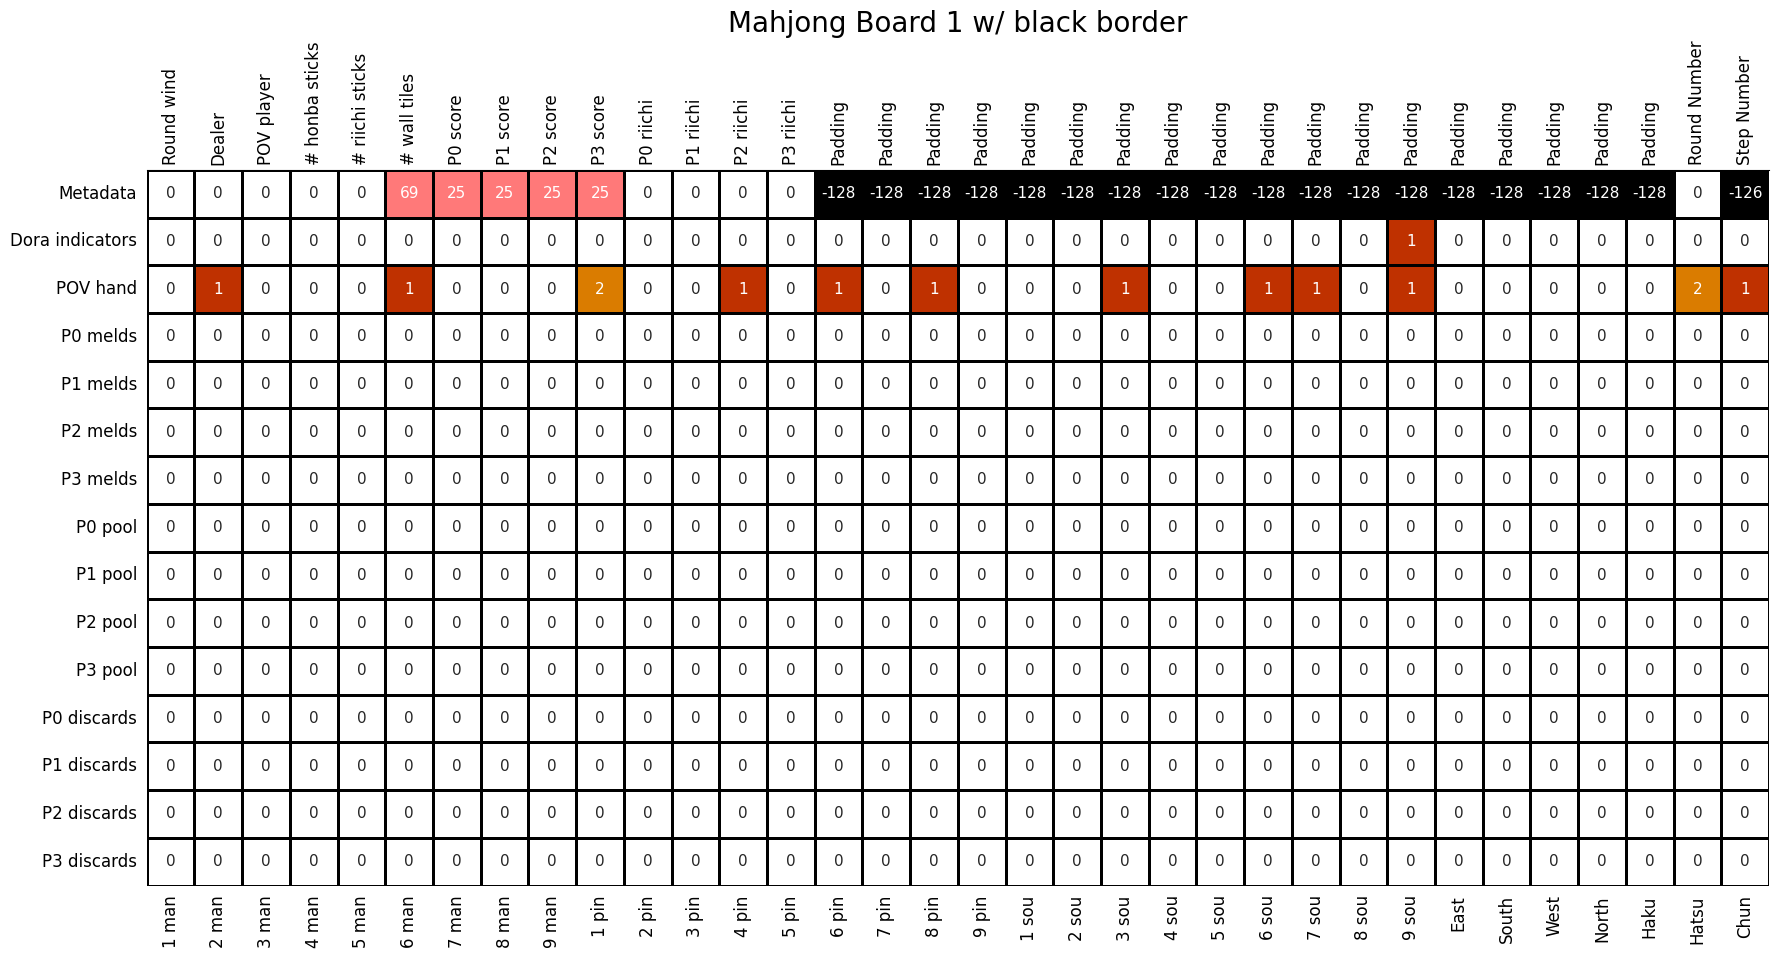
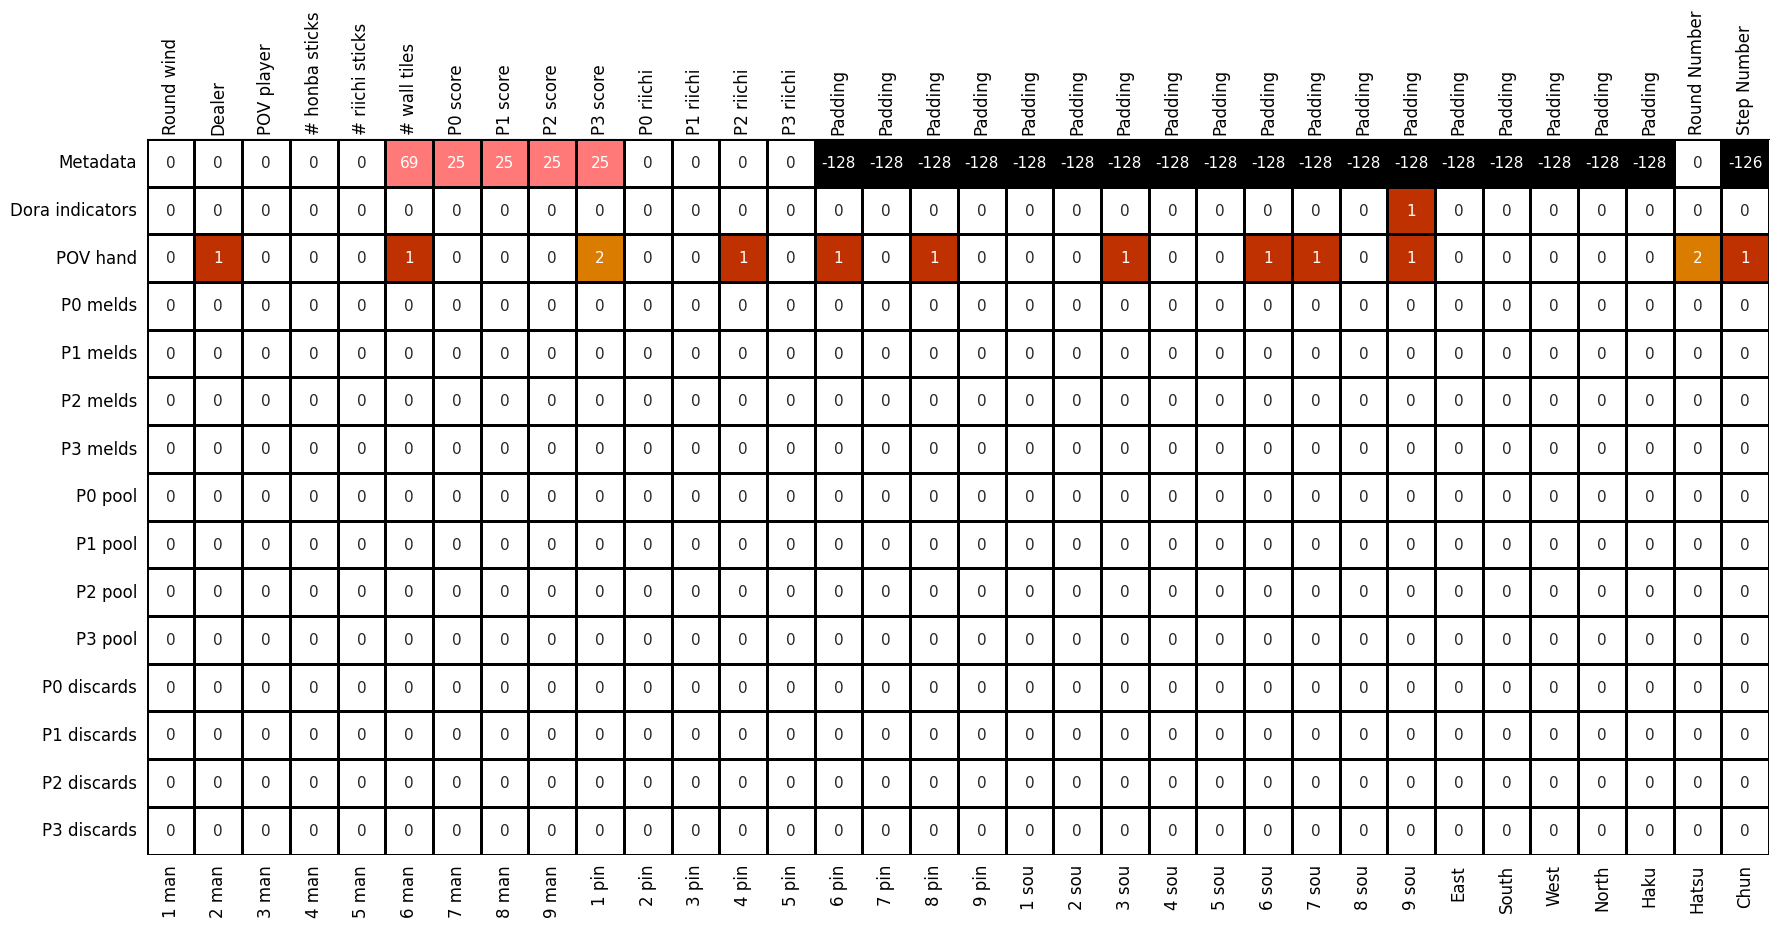
Fix:HeatMap

Changed region(s): [[0.0, 0.0302, 1.0, 0.9968], [0.4019, 0.0, 0.6802, 0.0302]]

diff --git a/maps.py b/maps.py
@@ -71,28 +71,6 @@ def generate_mahjong_heatmap(
     output_path=None,
     show_fig=True,
 ):
-    """Generate a heatmap using the given input matrix.
-
-    Args:
-        input_matrix (np.ndarray): The input 2D array for heatmap generation.
-        labels_left (list[str] | None, optional): Labels for the left side of the heatmap. If None, use default labels. If empty list, no labels are used.. Defaults to None.
-        labels_top (list[str] | None, optional): Labels for the top side of the heatmap. If None, use default labels. If empty list, no labels are used.. Defaults to None.
-        labels_bottom (list[str] | None, optional): Labels for the bottom side of the heatmap. If None, use default labels. If empty list, no labels are used.. Defaults to None.
-        override_heatmap_params (dict, optional): _description_. Defaults to {}.
-        figure_size (tuple, optional): Defaults to (18, 11).
-        title (str, optional): Defaults to "".
-        enable_color_bar (bool, optional): Defaults to False.
-        color_bar_label (str, optional): Color bar label. Defaults to "".
-        colormap (str, optional): _description_. Defaults to "icefire".
-        enable_annotation (bool, optional): _description_. Defaults to True.
-        enable_border (bool, optional): Enable border around the heatmap cells. Defaults to True.
-        border_color (str, optional): Heatmap cell border color. Defaults to "black".
-        border_width (int, optional): Heatmap cell border width. Defaults to 2.
-        annotation_fontsize (int, optional): Heatmap cell annotation fontsize. Defaults to 11.
-        label_fontsize (int, optional): Label fontsize. Defaults to 12.
-        output_path (_type_, optional): Where to output the figure. If None, does not output. Defaults to None.
-        show_fig (bool, optional): Show figure if True, otherwise suppress display. Defaults to True.
-    """
 
     assert input_matrix.ndim == 2, "Method expects a 2D matrix!"
 

diff --git a/test.py b/test.py
@@ -41,8 +41,7 @@ num_matrices_to_process = 5  # Procesar solo las primeras 5 para prueba rápida
 
 print(f"Generando heatmaps para las primeras {num_matrices_to_process} matrices...")
 
-for i in range(min(num_matrices_to_process, len(mock_matrix))):
-    # Obtener la fila individual y reformatearla a matriz 2D (15x34)
+for i in range(min(num_matrices_to_process, len(mock_matrix))):    # Obtener la fila individual y reformatearla a matriz 2D (15x34)
     single_row = mock_matrix[i]  # Obtener fila individual (510 elementos)
     single_matrix = single_row.reshape(15, 34)  # Reformatear a matriz 2D de 15x34
     
@@ -51,7 +50,7 @@ for i in range(min(num_matrices_to_process, len(mock_matrix))):
     try:
         generate_mahjong_heatmap(
             input_matrix=single_matrix,
-            title=f"Mahjong Board {i+1} w/ black border",
+            title="",  # Título eliminado
             border_color="black",
             colormap="kaggle_mahjong",  # Custom colormap useful for this use-case
             output_path=f"./resources/mahjong_board_{i+1}_black"

diff --git a/dashboard_app.py b/dashboard_app.py
@@ -138,13 +138,11 @@ class MahjongDashboard:
                 return None
 
             # Obtener la matriz específica
-            matrix_data = self.matrices_data[matrix_index]
-
-            # Generar heatmap usando la función de maps.py
+            matrix_data = self.matrices_data[matrix_index]            # Generar heatmap usando la función de maps.py
             output_path = f"./resources/mahjong_board_{matrix_index + 1}_{color}"
             generate_mahjong_heatmap(
                 input_matrix=matrix_data,
-                title=f"Mahjong Board {matrix_index + 1} w/ {color} border",
+                title="",  # Título eliminado
                 border_color=color,
                 colormap="kaggle_mahjong",
                 output_path=output_path,

diff --git a/heatmap.py b/heatmap.py
@@ -15,7 +15,6 @@ print(f"Dimensiones originales de mat1: {mat1.shape}")
 
 print(mat1[0])  
 
-# Esto elimina la columna en el índice 510 de todas las filas
 if mat1.shape[1] > 510:
     mat1 = np.delete(mat1, 510, axis=1)
     print(f"Dimensiones después de eliminar elemento 510: {mat1.shape}")
